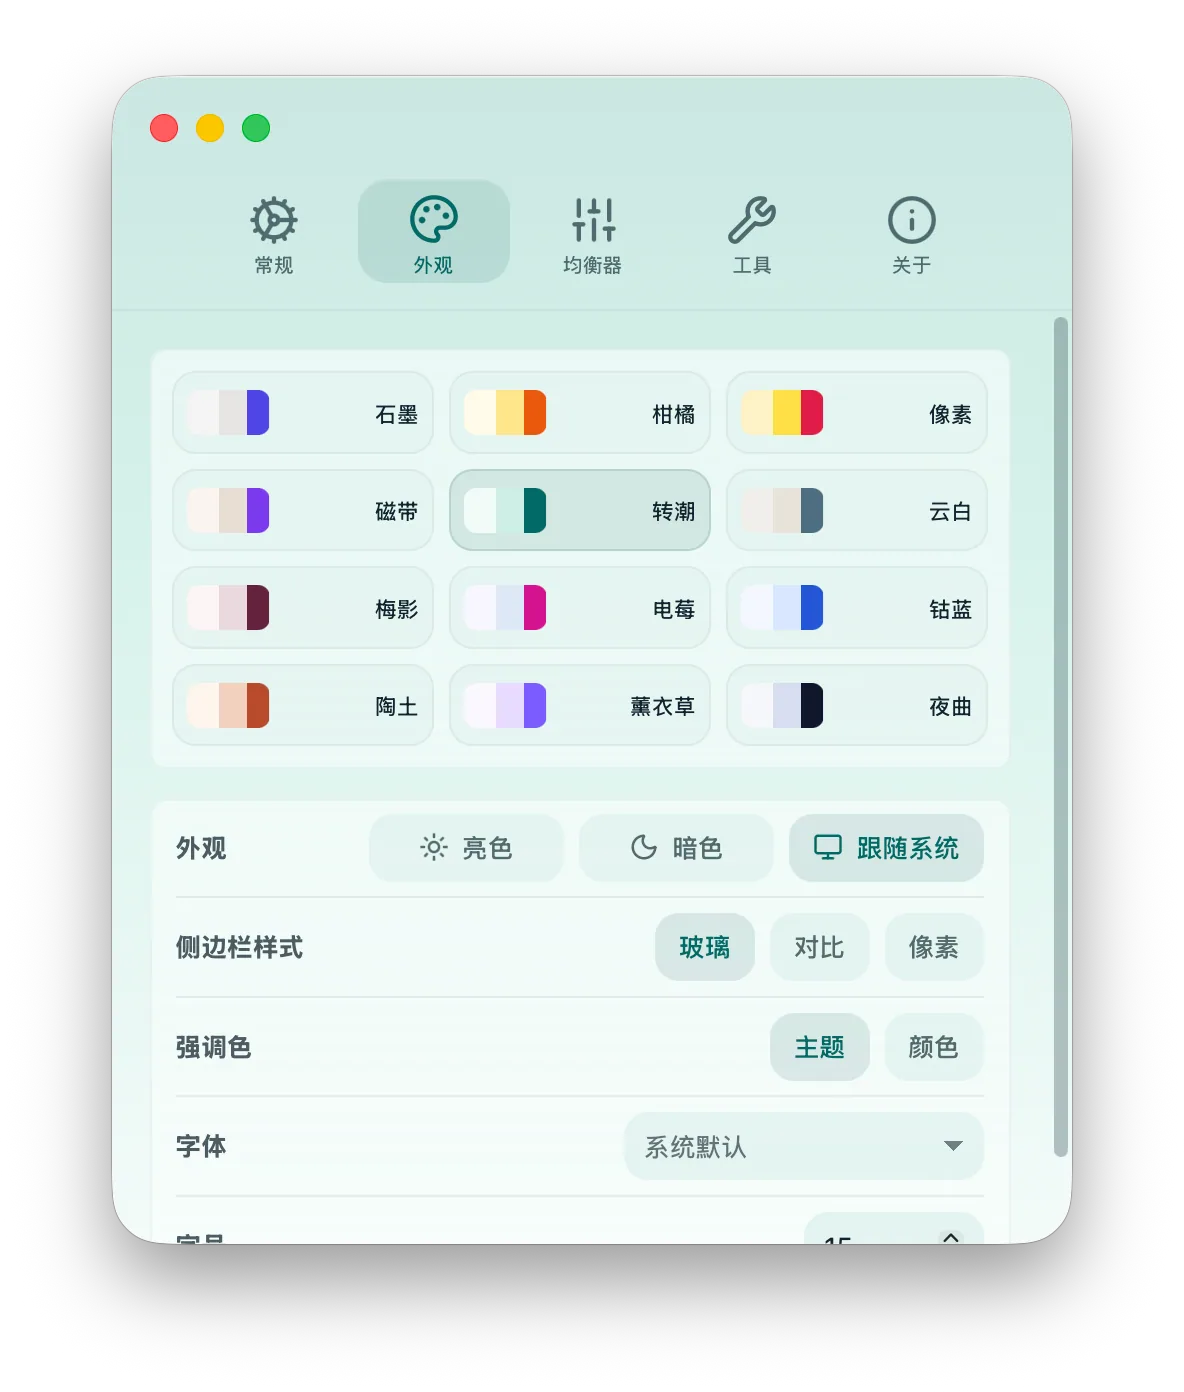
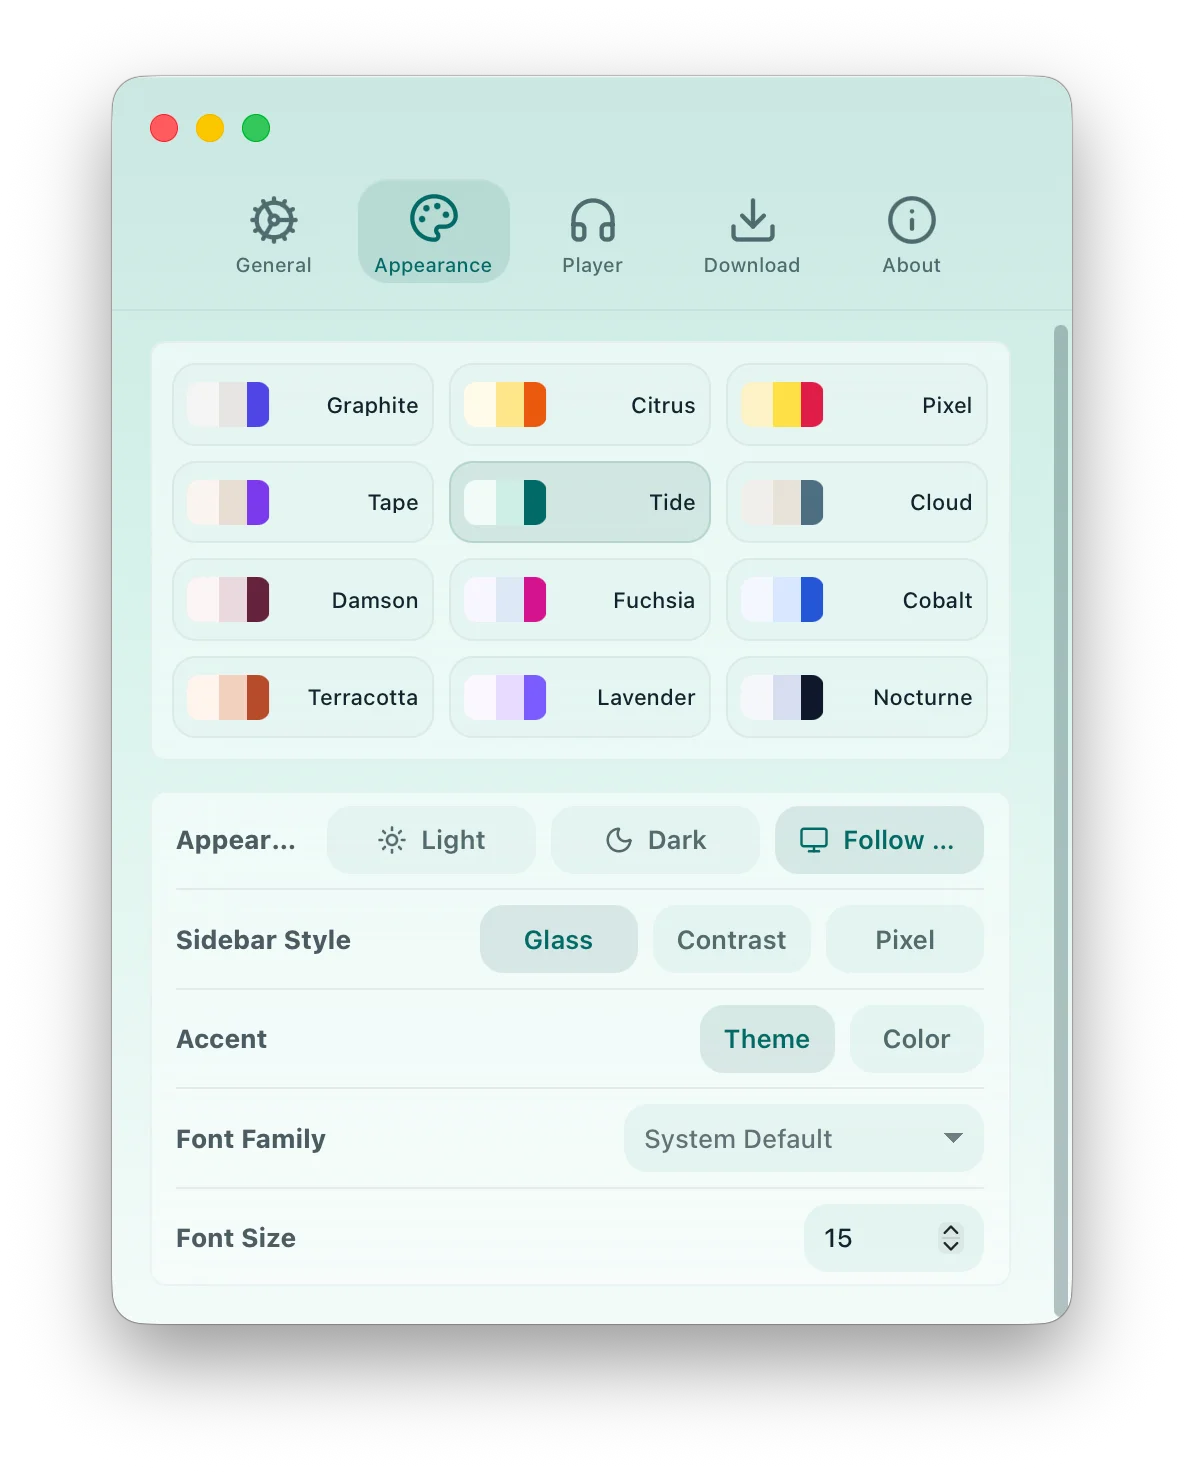
docs: 更新 README / update READMEs

diff --git a/README_es-419.md b/README_es-419.md
@@ -96,15 +96,15 @@ Es una herramienta diaria creada para creadores de contenido: cuando necesitas m
   </p>
 
   <p align="center">
-    <img src="./images/connector.webp" alt="Vista de conexiones y aislamiento de cuentas de XiaDown" width="92%" />
+    <img src="./images/app_sessions.webp" alt="Vista de sesiones de app y estado de inicio de sesión de XiaDown" width="92%" />
     <br />
-    <sub>Aislamiento de conexiones, Cookies y Profiles del navegador</sub>
+    <sub>Sesiones de app, verificación de inicio de sesión y estado de cuentas</sub>
   </p>
 
   <p align="center">
-    <img src="./images/tools.webp" alt="Vista de gestión de herramientas dependientes de XiaDown" width="92%" />
+    <img src="./images/settings_download.webp" alt="Vista de ajustes de descarga y gestión de herramientas dependientes de XiaDown" width="92%" />
     <br />
-    <sub>Gestión automática de YT-DLP, FFmpeg y Bun</sub>
+    <sub>Directorio de descarga, concurrencia y gestión de YT-DLP, FFmpeg y Bun</sub>
   </p>
 
   <p align="center">
@@ -120,7 +120,17 @@ Es una herramienta diaria creada para creadores de contenido: cuando necesitas m
   </p>
 </details>
 
-## Inicio Rápido
+## Instalación
+
+### Homebrew
+
+En macOS, instala con Homebrew cask:
+
+```bash
+brew install --cask arnoldhao/tap/xiadown
+```
+
+### Descargar instaladores
 
 Descarga directamente el paquete más reciente a continuación. Las versiones anteriores están disponibles en [GitHub Releases](https://github.com/arnoldhao/xiadown/releases).
 
@@ -144,6 +154,15 @@ Navegadores compatibles actualmente:
 | Principales | Privacidad y eficiencia | Especializados y regionales |
 | --- | --- | --- |
 | Chrome, Chromium, Edge | Brave, Vivaldi, Arc, Helium | Opera, Opera GX, Yandex Browser |
+
+## Desarrollo local
+
+Después de preparar Go y Bun, instala la CLI de Wails 3 e inicia el modo de desarrollo:
+
+```bash
+go install github.com/wailsapp/wails/v3/cmd/wails3@v3.0.0-alpha.95
+wails3 dev
+```
 
 ## Aviso Legal
 

diff --git a/README_ko-KR.md b/README_ko-KR.md
@@ -96,15 +96,15 @@ XiaDown은 온라인 음악 플레이어이자 듀얼 엔진 동영상 다운로
   </p>
 
   <p align="center">
-    <img src="./images/connector.webp" alt="XiaDown 연결 및 계정 격리 화면" width="92%" />
+    <img src="./images/app_sessions.webp" alt="XiaDown 앱 세션 및 로그인 상태 화면" width="92%" />
     <br />
-    <sub>연결 설정, Cookies, 브라우저 Profile 격리</sub>
+    <sub>앱 세션, 로그인 확인 및 계정 상태 관리</sub>
   </p>
 
   <p align="center">
-    <img src="./images/tools.webp" alt="XiaDown 의존성 도구 관리 화면" width="92%" />
+    <img src="./images/settings_download.webp" alt="XiaDown 다운로드 설정 및 의존성 도구 관리 화면" width="92%" />
     <br />
-    <sub>YT-DLP, FFmpeg, Bun 의존성 자동 관리</sub>
+    <sub>다운로드 폴더, 동시 작업 수, YT-DLP, FFmpeg, Bun 관리</sub>
   </p>
 
   <p align="center">
@@ -120,7 +120,17 @@ XiaDown은 온라인 음악 플레이어이자 듀얼 엔진 동영상 다운로
   </p>
 </details>
 
-## 빠른 시작
+## 설치 방법
+
+### Homebrew
+
+macOS에서는 Homebrew cask로 설치할 수 있습니다:
+
+```bash
+brew install --cask arnoldhao/tap/xiadown
+```
+
+### 설치 패키지 다운로드
 
 아래에서 최신 설치 패키지를 바로 다운로드할 수 있습니다. 이전 버전은 [GitHub Releases](https://github.com/arnoldhao/xiadown/releases)에서 확인할 수 있습니다.
 
@@ -144,6 +154,15 @@ XiaDown은 온라인 음악 플레이어이자 듀얼 엔진 동영상 다운로
 | 주요 | 개인정보 보호와 효율 | 특화 및 지역 |
 | --- | --- | --- |
 | Chrome, Chromium, Edge | Brave, Vivaldi, Arc, Helium | Opera, Opera GX, Yandex Browser |
+
+## 로컬 개발
+
+Go와 Bun 환경을 준비한 뒤 Wails 3 CLI를 설치하고 개발 모드를 시작합니다:
+
+```bash
+go install github.com/wailsapp/wails/v3/cmd/wails3@v3.0.0-alpha.95
+wails3 dev
+```
 
 ## 면책 조항
 

diff --git a/README_pt-BR.md b/README_pt-BR.md
@@ -96,15 +96,15 @@ Ele é uma ferramenta diária criada para criadores de conteúdo: quando você p
   </p>
 
   <p align="center">
-    <img src="./images/connector.webp" alt="Tela de conexões e isolamento de contas do XiaDown" width="92%" />
+    <img src="./images/app_sessions.webp" alt="Tela de sessões do app e status de login do XiaDown" width="92%" />
     <br />
-    <sub>Isolamento de conexões, Cookies e Profiles do navegador</sub>
+    <sub>Sessões do app, verificação de login e gerenciamento de status da conta</sub>
   </p>
 
   <p align="center">
-    <img src="./images/tools.webp" alt="Tela de gerenciamento de ferramentas dependentes do XiaDown" width="92%" />
+    <img src="./images/settings_download.webp" alt="Tela de configurações de download e gerenciamento de ferramentas dependentes do XiaDown" width="92%" />
     <br />
-    <sub>Gerenciamento automático de YT-DLP, FFmpeg e Bun</sub>
+    <sub>Diretório de download, concorrência e gerenciamento de YT-DLP, FFmpeg e Bun</sub>
   </p>
 
   <p align="center">
@@ -120,7 +120,17 @@ Ele é uma ferramenta diária criada para criadores de conteúdo: quando você p
   </p>
 </details>
 
-## Início Rápido
+## Instalação
+
+### Homebrew
+
+No macOS, instale com Homebrew cask:
+
+```bash
+brew install --cask arnoldhao/tap/xiadown
+```
+
+### Baixar instaladores
 
 Baixe diretamente o pacote mais recente abaixo. Versões anteriores estão disponíveis em [GitHub Releases](https://github.com/arnoldhao/xiadown/releases).
 
@@ -144,6 +154,15 @@ Navegadores compatíveis atualmente:
 | Principais | Privacidade e eficiência | Especiais e regionais |
 | --- | --- | --- |
 | Chrome, Chromium, Edge | Brave, Vivaldi, Arc, Helium | Opera, Opera GX, Yandex Browser |
+
+## Desenvolvimento local
+
+Depois de preparar Go e Bun, instale a CLI do Wails 3 e inicie o modo de desenvolvimento:
+
+```bash
+go install github.com/wailsapp/wails/v3/cmd/wails3@v3.0.0-alpha.95
+wails3 dev
+```
 
 ## Aviso Legal
 

diff --git a/README_en.md b/README_en.md
@@ -96,15 +96,15 @@ It is a daily tool built for content creators: when you need material, use sniff
   </p>
 
   <p align="center">
-    <img src="./images/connector.webp" alt="XiaDown connection and account isolation view" width="92%" />
+    <img src="./images/app_sessions.webp" alt="XiaDown app sessions and sign-in status view" width="92%" />
     <br />
-    <sub>Connection settings, Cookies, and browser Profile isolation</sub>
+    <sub>App sessions, sign-in verification, and account status management</sub>
   </p>
 
   <p align="center">
-    <img src="./images/tools.webp" alt="XiaDown dependency tool management view" width="92%" />
+    <img src="./images/settings_download.webp" alt="XiaDown download settings and dependency tool management view" width="92%" />
     <br />
-    <sub>Automatic management for YT-DLP, FFmpeg, and Bun</sub>
+    <sub>Download directory, concurrency, and YT-DLP, FFmpeg, Bun management</sub>
   </p>
 
   <p align="center">
@@ -120,7 +120,17 @@ It is a daily tool built for content creators: when you need material, use sniff
   </p>
 </details>
 
-## Quick Start
+## Installation
+
+### Homebrew
+
+On macOS, install with Homebrew cask:
+
+```bash
+brew install --cask arnoldhao/tap/xiadown
+```
+
+### Download Installers
 
 Download the latest package directly below. Older versions are available on [GitHub Releases](https://github.com/arnoldhao/xiadown/releases).
 
@@ -144,6 +154,15 @@ Currently supported browsers:
 | Mainstream | Privacy and Productivity | Specialty and Regional |
 | --- | --- | --- |
 | Chrome, Chromium, Edge | Brave, Vivaldi, Arc, Helium | Opera, Opera GX, Yandex Browser |
+
+## Local Development
+
+After preparing Go and Bun, install the Wails 3 CLI and start development mode:
+
+```bash
+go install github.com/wailsapp/wails/v3/cmd/wails3@v3.0.0-alpha.95
+wails3 dev
+```
 
 ## Disclaimer
 

diff --git a/README_id-ID.md b/README_id-ID.md
@@ -96,15 +96,15 @@ XiaDown dibuat sebagai alat harian untuk kreator konten: saat membutuhkan materi
   </p>
 
   <p align="center">
-    <img src="./images/connector.webp" alt="Tampilan koneksi dan isolasi akun XiaDown" width="92%" />
+    <img src="./images/app_sessions.webp" alt="Tampilan sesi aplikasi dan status masuk XiaDown" width="92%" />
     <br />
-    <sub>Isolasi pengaturan koneksi, Cookies, dan Profile browser</sub>
+    <sub>Sesi aplikasi, verifikasi masuk, dan manajemen status akun</sub>
   </p>
 
   <p align="center">
-    <img src="./images/tools.webp" alt="Tampilan manajemen alat dependensi XiaDown" width="92%" />
+    <img src="./images/settings_download.webp" alt="Tampilan pengaturan unduhan dan manajemen alat dependensi XiaDown" width="92%" />
     <br />
-    <sub>Manajemen otomatis YT-DLP, FFmpeg, dan Bun</sub>
+    <sub>Direktori unduhan, konkurensi, dan manajemen YT-DLP, FFmpeg, Bun</sub>
   </p>
 
   <p align="center">
@@ -120,7 +120,17 @@ XiaDown dibuat sebagai alat harian untuk kreator konten: saat membutuhkan materi
   </p>
 </details>
 
-## Mulai Cepat
+## Cara Instalasi
+
+### Homebrew
+
+Di macOS, instal dengan Homebrew cask:
+
+```bash
+brew install --cask arnoldhao/tap/xiadown
+```
+
+### Unduh installer
 
 Unduh paket terbaru secara langsung di bawah ini. Versi lama tersedia di [GitHub Releases](https://github.com/arnoldhao/xiadown/releases).
 
@@ -144,6 +154,15 @@ Browser yang saat ini didukung:
 | Utama | Privasi dan efisiensi | Khusus dan regional |
 | --- | --- | --- |
 | Chrome, Chromium, Edge | Brave, Vivaldi, Arc, Helium | Opera, Opera GX, Yandex Browser |
+
+## Pengembangan lokal
+
+Setelah menyiapkan Go dan Bun, instal Wails 3 CLI lalu jalankan mode pengembangan:
+
+```bash
+go install github.com/wailsapp/wails/v3/cmd/wails3@v3.0.0-alpha.95
+wails3 dev
+```
 
 ## Penafian
 

diff --git a/README_zh-Hant.md b/README_zh-Hant.md
@@ -96,15 +96,15 @@
   </p>
 
   <p align="center">
-    <img src="./images/connector.webp" alt="下蛋連線與帳號隔離介面" width="92%" />
+    <img src="./images/app_sessions.webp" alt="下蛋應用工作階段與登入狀態介面" width="92%" />
     <br />
-    <sub>連線設定、Cookies 與瀏覽器 Profile 隔離</sub>
+    <sub>應用工作階段、登入驗證與帳號狀態管理</sub>
   </p>
 
   <p align="center">
-    <img src="./images/tools.webp" alt="下蛋依賴工具管理介面" width="92%" />
+    <img src="./images/settings_download.webp" alt="下蛋下載設定與依賴工具管理介面" width="92%" />
     <br />
-    <sub>YT-DLP、FFmpeg、Bun 依賴自動管理</sub>
+    <sub>下載目錄、並行數與 YT-DLP、FFmpeg、Bun 依賴管理</sub>
   </p>
 
   <p align="center">
@@ -120,7 +120,17 @@
   </p>
 </details>
 
-## 快速開始
+## 安裝方式
+
+### Homebrew
+
+macOS 可透過 Homebrew cask 安裝：
+
+```bash
+brew install --cask arnoldhao/tap/xiadown
+```
+
+### 下載安裝包
 
 可直接下載最新安裝包；歷史版本見 [GitHub 發布頁](https://github.com/arnoldhao/xiadown/releases)。
 
@@ -144,6 +154,15 @@
 | 主流 | 隱私與效率 | 特色與區域 |
 | --- | --- | --- |
 | Chrome、Chromium、Edge | Brave、Vivaldi、Arc、Helium | Opera、Opera GX、Yandex Browser |
+
+## 本機開發
+
+準備好 Go 與 Bun 環境後，安裝 Wails 3 命令列並啟動開發模式：
+
+```bash
+go install github.com/wailsapp/wails/v3/cmd/wails3@v3.0.0-alpha.95
+wails3 dev
+```
 
 ## 免責聲明
 

diff --git a/README.md b/README.md
@@ -96,15 +96,15 @@
   </p>
 
   <p align="center">
-    <img src="./images/connector.webp" alt="下蛋连接与账号隔离界面" width="92%" />
+    <img src="./images/app_sessions.webp" alt="下蛋应用会话与登录状态界面" width="92%" />
     <br />
-    <sub>连接配置、Cookies 与浏览器 Profile 隔离</sub>
+    <sub>应用会话、登录校验与账号状态管理</sub>
   </p>
 
   <p align="center">
-    <img src="./images/tools.webp" alt="下蛋依赖工具管理界面" width="92%" />
+    <img src="./images/settings_download.webp" alt="下蛋下载设置与依赖工具管理界面" width="92%" />
     <br />
-    <sub>YT-DLP、FFmpeg、Bun 依赖自动管理</sub>
+    <sub>下载目录、并发与 YT-DLP、FFmpeg、Bun 依赖管理</sub>
   </p>
 
   <p align="center">
@@ -120,7 +120,17 @@
   </p>
 </details>
 
-## 快速开始
+## 安装方式
+
+### Homebrew
+
+macOS 可通过 Homebrew cask 安装：
+
+```bash
+brew install --cask arnoldhao/tap/xiadown
+```
+
+### 下载安装包
 
 可直接下载最新安装包；历史版本见 [GitHub 发布页](https://github.com/arnoldhao/xiadown/releases)。
 
@@ -144,6 +154,15 @@
 | 主流 | 隐私与效率 | 特色与区域 |
 | --- | --- | --- |
 | Chrome、Chromium、Edge | Brave、Vivaldi、Arc、Helium | Opera、Opera GX、Yandex Browser |
+
+## 本地开发
+
+准备好 Go 与 Bun 环境后，安装 Wails 3 命令行并启动开发模式：
+
+```bash
+go install github.com/wailsapp/wails/v3/cmd/wails3@v3.0.0-alpha.95
+wails3 dev
+```
 
 ## 免责声明
 
